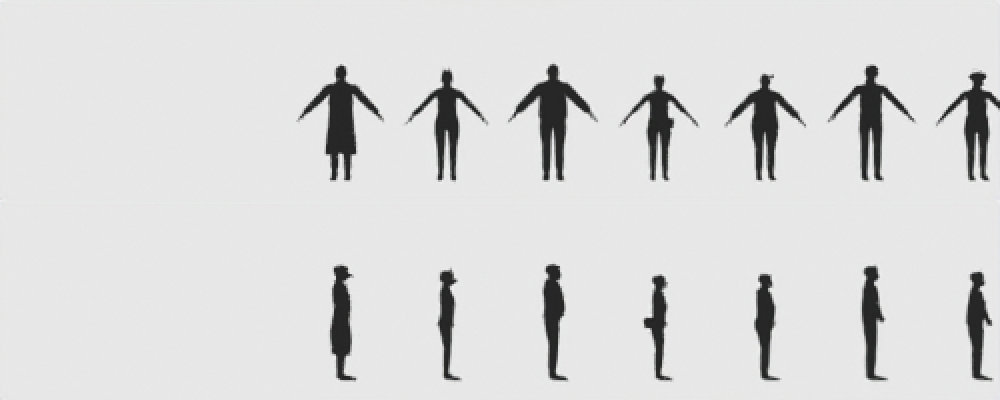
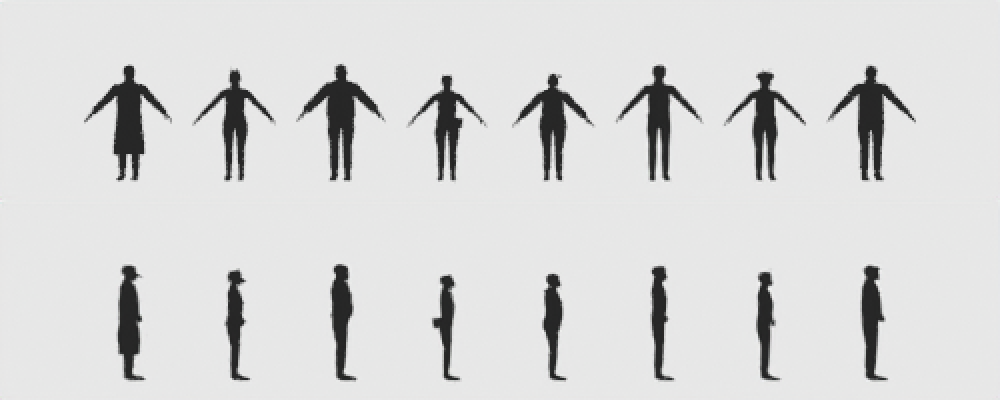
[D4-03] heisters 7 and 8: Juno (emerald moto) and Hale (sand chore jacket); FP sleeves, portraits, crew envelope + 36 masks regen, 8-heister lineup / faces / silhouette sheets
Claude-Session: https://claude.ai/code/session_01ReDcHVcp53RGGD6F8ciuZ9

diff --git a/tools/blender/characters/_crew_review.py b/tools/blender/characters/_crew_review.py
@@ -183,7 +183,7 @@ elif mode == "silhouette":
             if o.type != "CAMERA":
                 bpy.data.objects.remove(o, do_unlink=True)
         for i, (cid, h, mask) in enumerate(CREW):
-            figure(cid, h, mask, Vector((-(i - 1.5) * 1.7, 0, 0)), rot)
+            figure(cid, h, mask, Vector((-(i - (len(CREW) - 1) / 2) * 1.7, 0, 0)), rot)
         for o in bpy.data.objects:
             if o.type == "MESH":
                 for s in range(len(o.material_slots)):

diff --git a/docs/status/env_d.md b/docs/status/env_d.md
@@ -26,6 +26,18 @@ game/assets/characters/_review, and this file's session entries.
 GAP fix order: D4-03 is the only gap and no shipped heist shows it, so it goes after anything the LEAD queues for a
 shipped heist. Nothing is Afterhours-only parked: that cast and its clips already exist.
 
+**D4-03 fixed (LEAD-approved picks):** `char_crew_juno` (woman, 1.73 m, fair, blond side part: emerald leather
+moto jacket with an asymmetric chrome zip, graphite crew-neck, black jeans, heeled moto boots, grey suede gloves) and
+`char_crew_hale` (man, 1.85 m so Dutch stays the tallest, deep skin, bald, moustache: sand canvas chore jacket, navy
+henley, dark jeans, brown work boots, yellow work gloves). 26.7k / 26.9k tris. New library materials
+char_crew_{juno_jacket,glove_suede,hale_jacket,glove_work}. Hale's moustache joins `Hair` (char_crew.py now joins any
+all-hair Headwear, Dutch unchanged). FP sleeves `char_arms_fp_{juno,hale}`; portraits `portraits/{juno,hale}.png`.
+Crew face envelope regenerated for 8 heisters (front growth <= 1 cm at the mouth from Hale's moustache) and all 36
+masks rebuilt (test_masks, test_crew mask seats green). Review: `_review/crew_lineup.png`, `crew_faces.png`,
+`crew_silhouette_30m.png` (the review script now sizes the lineup / silhouette to the roster), `heister_portraits.png`.
+Found: `char_crew_rook.glb` on trunk is stale against the current tooling (rebuilds to different bytes, same tris);
+left as is.
+
 ## To the LEAD: (2026-10-22, latest first; I read your messages, you read this)
 - **PO "inorganic" follow-up: in-motion strips from a real loud heist** (`_tools/render_motion_strips`, Glasshouse
   Routine seed 7, all-AI crew, trunk 80245b93 incl. A's v1.26(a)): `_review/d_motion/{crew_sprint,crew_strafe,
